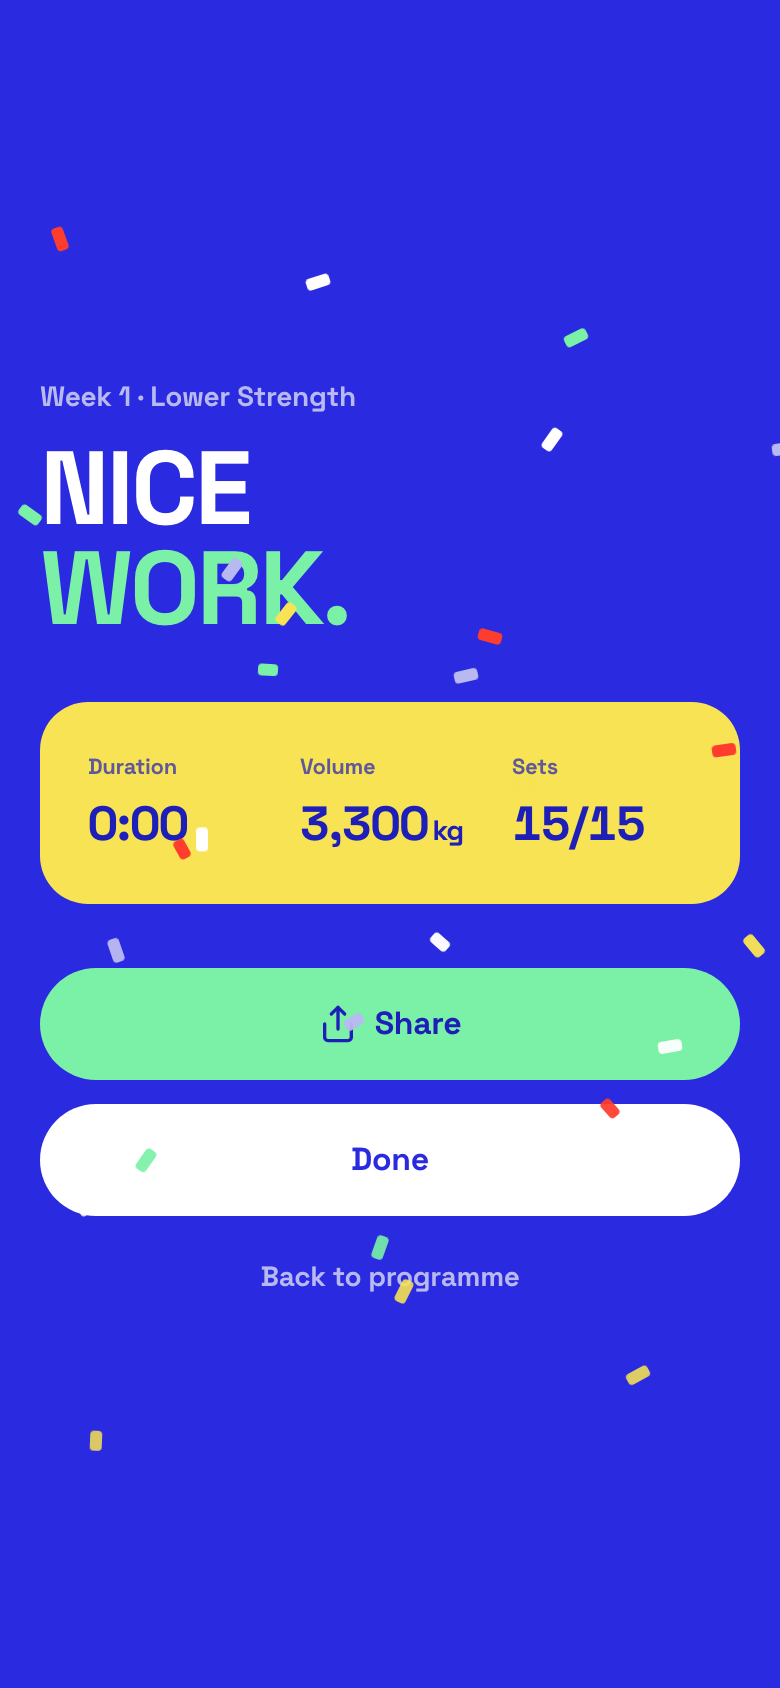
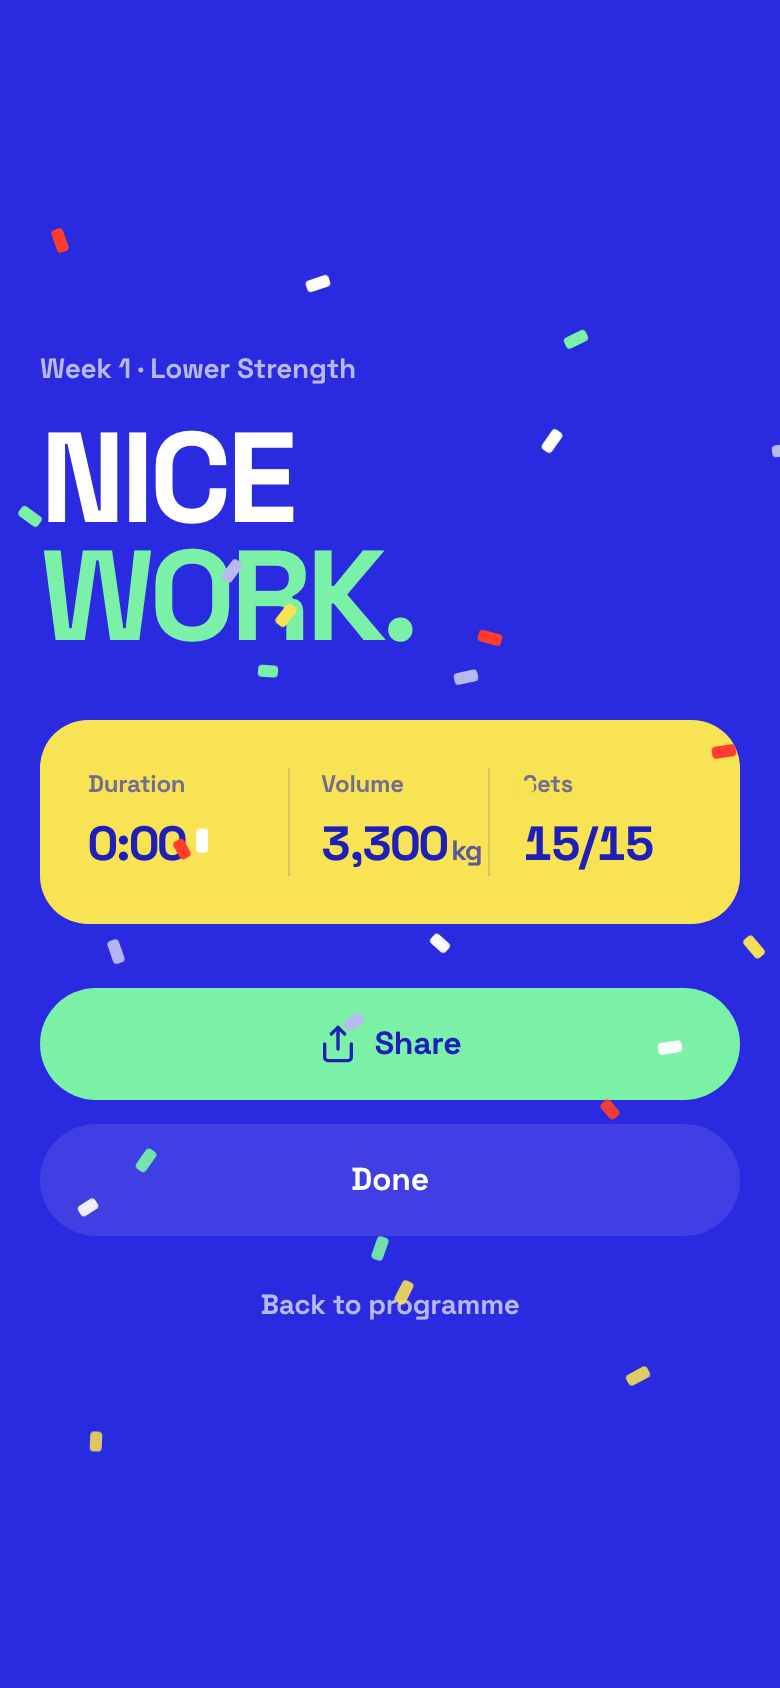
V4: completion screen — won blind A/B, all criteria met
V4 completion screen polish (src/pages/CompletionPage.tsx only, all changes CSS-class-level): (1) Headline scaled up from 3.25rem to 4rem with leading-[0.92] and tracking-[-0.04em], eyebrow gap bumped to mb-4 — the "NICE WORK." display type is now unmistakably the hero, matching the reference's celebratory confidence. (2) Zest stat card restructured to read as one designed object: grid-cols-3 with

Changed region(s): [[0.0308, 0.2156, 0.9538, 0.8009], [0.0308, 0.4313, 0.0615, 0.4621]]

diff --git a/src/pages/CompletionPage.tsx b/src/pages/CompletionPage.tsx
@@ -100,12 +100,12 @@ export default function CompletionPage() {
       {!reduceMotion && <Confetti />}
 
       <main className="max-w-xl mx-auto w-full px-5 flex-1 flex flex-col justify-center py-12">
-        <motion.p className="text-sm font-bold text-mist mb-3" {...rise(0.05)}>
+        <motion.p className="text-sm font-bold text-mist mb-4" {...rise(0.05)}>
           Week {weekNum} · {dayName}
         </motion.p>
 
         <motion.h1
-          className="text-[3.25rem] leading-[0.95] font-bold tracking-[-0.03em] uppercase"
+          className="text-[4rem] leading-[0.92] font-bold tracking-[-0.04em] uppercase"
           {...rise(0.12)}
         >
           Nice
@@ -119,23 +119,23 @@ export default function CompletionPage() {
           animate={{ opacity: 1, y: 0, scale: 1 }}
           transition={{ type: 'spring', stiffness: 260, damping: 24, delay: 0.25 }}
         >
-          <div className="grid grid-cols-3 gap-4">
-            <div>
-              <p className="text-[0.6875rem] font-bold opacity-70">Duration</p>
-              <p className="text-2xl font-bold tabular-nums tracking-[-0.02em] mt-1">
+          <div className="grid grid-cols-3 divide-x divide-court-deep/15">
+            <div className="pr-4">
+              <p className="text-xs font-bold text-court-deep/60">Duration</p>
+              <p className="text-2xl font-bold tabular-nums tracking-[-0.03em] mt-1.5">
                 {state ? formatElapsed(state.elapsed) : '—'}
               </p>
             </div>
-            <div>
-              <p className="text-[0.6875rem] font-bold opacity-70">Volume</p>
-              <p className="text-2xl font-bold tabular-nums tracking-[-0.02em] mt-1">
+            <div className="px-4">
+              <p className="text-xs font-bold text-court-deep/60">Volume</p>
+              <p className="text-2xl font-bold tabular-nums tracking-[-0.03em] mt-1.5">
                 {state ? `${Math.round(state.volume).toLocaleString()}` : '—'}
-                <span className="text-sm font-bold ml-0.5">kg</span>
+                <span className="text-sm font-bold ml-0.5 text-court-deep/70">kg</span>
               </p>
             </div>
-            <div>
-              <p className="text-[0.6875rem] font-bold opacity-70">Sets</p>
-              <p className="text-2xl font-bold tabular-nums tracking-[-0.02em] mt-1">
+            <div className="pl-4">
+              <p className="text-xs font-bold text-court-deep/60">Sets</p>
+              <p className="text-2xl font-bold tabular-nums tracking-[-0.03em] mt-1.5">
                 {state ? `${state.setsDone}/${state.totalSets}` : '—'}
               </p>
             </div>
@@ -158,7 +158,7 @@ export default function CompletionPage() {
             hapticTap();
             navigate(`/week/${weekNum ?? 1}`);
           }}
-          className="mt-3 w-full bg-white text-court font-bold text-base py-4 rounded-full transition-transform active:scale-[0.98]"
+          className="mt-3 w-full bg-white/10 text-white font-bold text-base py-4 rounded-full transition-transform active:scale-[0.98]"
           {...rise(0.42)}
         >
           Done
@@ -169,7 +169,7 @@ export default function CompletionPage() {
             hapticTap();
             navigate('/');
           }}
-          className="mt-3 w-full text-mist font-bold text-sm py-2"
+          className="mt-4 w-full text-mist font-bold text-sm py-2"
           {...rise(0.5)}
         >
           Back to programme
